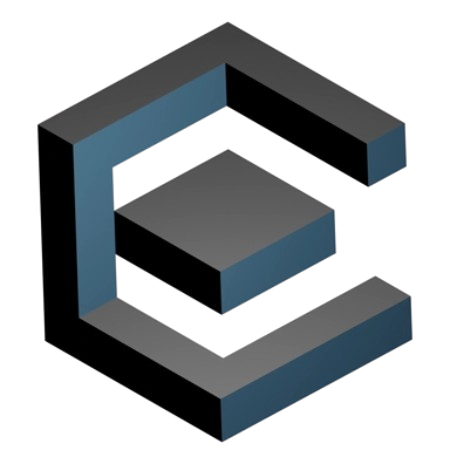
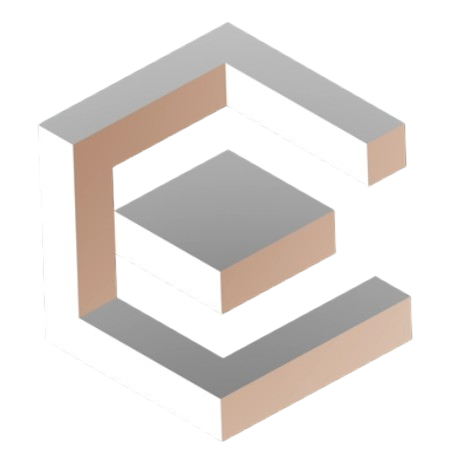
black theme of chatbot

diff --git a/src/client/components/Chatbot.js b/src/client/components/Chatbot.js
@@ -3,7 +3,7 @@ import { useEffect, useRef, useState } from 'react'
 import { SendHorizonalIcon, XIcon } from 'lucide-react'
 
 // Edify icon component using the logo image
-function EdifyIcon({ size = 24 }) {
+function EdifyIcon({ size = 24, invert = false }) {
   return (
     <img
       src="/edifyengine.png"
@@ -13,6 +13,7 @@ function EdifyIcon({ size = 24 }) {
       style={{
         display: 'block',
         objectFit: 'contain',
+        filter: invert ? 'invert(1)' : 'none',
       }}
     />
   )
@@ -157,15 +158,15 @@ export function Chatbot({ world }) {
           max-width: calc(100vw - 2rem);
           height: 28rem;
           max-height: calc(100vh - 8rem);
-          background: rgba(255, 255, 255, 0.95);
-          backdrop-filter: blur(10px);
+          background: rgba(15, 17, 29, 0.95);
+          backdrop-filter: blur(14px);
           border-radius: 1rem;
-          border: 1px solid rgba(0, 0, 0, 0.1);
+          border: 1px solid rgba(255, 255, 255, 0.08);
           display: flex;
           flex-direction: column;
           overflow: hidden;
           pointer-events: auto;
-          box-shadow: 0 8px 32px rgba(0, 0, 0, 0.15);
+          box-shadow: 0 24px 48px rgba(0, 0, 0, 0.45);
           isolation: isolate; /* Create a new stacking context to prevent style leakage */
           user-select: text !important;
           -webkit-user-select: text !important;
@@ -193,8 +194,8 @@ export function Chatbot({ world }) {
             align-items: center;
             justify-content: space-between;
             padding: 1rem;
-            border-bottom: 1px solid rgba(0, 0, 0, 0.1);
-            background: rgba(248, 249, 250, 0.8);
+            border-bottom: 1px solid rgba(255, 255, 255, 0.08);
+            background: rgba(24, 26, 38, 0.9);
           `}
         >
           <div
@@ -202,7 +203,7 @@ export function Chatbot({ world }) {
               display: flex;
               align-items: center;
               gap: 0.5rem;
-              color: #1a1a1a;
+              color: #f1f5f9;
               font-weight: 600;
               font-size: 1rem;
             `}
@@ -215,7 +216,7 @@ export function Chatbot({ world }) {
             css={css`
               background: transparent;
               border: none;
-              color: rgba(0, 0, 0, 0.6);
+              color: rgba(226, 232, 240, 0.7);
               cursor: pointer;
               padding: 0.25rem;
               display: flex;
@@ -225,8 +226,8 @@ export function Chatbot({ world }) {
               transition: all 0.2s;
 
               &:hover {
-                background: rgba(0, 0, 0, 0.05);
-                color: #1a1a1a;
+                background: rgba(148, 163, 184, 0.1);
+                color: #f8fafc;
               }
             `}
           >
@@ -247,6 +248,7 @@ export function Chatbot({ world }) {
             -webkit-user-select: text;
             -moz-user-select: text;
             -ms-user-select: text;
+            color: #e2e8f0;
 
             /* Scrollbar styling */
             &::-webkit-scrollbar {
@@ -256,11 +258,11 @@ export function Chatbot({ world }) {
               background: transparent;
             }
             &::-webkit-scrollbar-thumb {
-              background: rgba(0, 0, 0, 0.2);
+              background: rgba(148, 163, 184, 0.35);
               border-radius: 3px;
             }
             &::-webkit-scrollbar-thumb:hover {
-              background: rgba(0, 0, 0, 0.3);
+              background: rgba(148, 163, 184, 0.5);
             }
           `}
         >
@@ -272,7 +274,7 @@ export function Chatbot({ world }) {
                 align-items: center;
                 justify-content: center;
                 height: 100%;
-                color: rgba(0, 0, 0, 0.6);
+                color: rgba(226, 232, 240, 0.7);
                 text-align: center;
                 gap: 0.5rem;
               `}
@@ -297,12 +299,16 @@ export function Chatbot({ world }) {
                     padding: 0.75rem 1rem;
                     border-radius: 1rem;
                     background: ${message.type === 'user'
-                      ? 'rgba(66, 103, 125, 1)'
+                      ? 'linear-gradient(135deg, rgba(66, 103, 125, 0.95), rgba(41, 62, 78, 0.95))'
                       : message.error
-                      ? 'rgba(239, 68, 68, 0.1)'
-                      : 'rgba(0, 0, 0, 0.05)'};
-                    color: ${message.type === 'user' ? 'white' : message.error ? '#dc2626' : '#1a1a1a'};
-                    border: ${message.error ? '1px solid rgba(239, 68, 68, 0.3)' : 'none'};
+                      ? 'rgba(239, 68, 68, 0.18)'
+                      : 'rgba(255, 255, 255, 0.06)'};
+                    color: ${message.type === 'user' ? '#f1f5f9' : message.error ? '#fecaca' : '#e2e8f0'};
+                    border: ${message.error
+                      ? '1px solid rgba(239, 68, 68, 0.45)'
+                      : message.type === 'user'
+                      ? '1px solid rgba(94, 142, 168, 0.45)'
+                      : '1px solid rgba(148, 163, 184, 0.25)'};
                     font-size: 0.875rem;
                     line-height: 1.5;
                     word-wrap: break-word;
@@ -313,6 +319,7 @@ export function Chatbot({ world }) {
                     -moz-user-select: text;
                     -ms-user-select: text;
                     cursor: text;
+                    box-shadow: 0 12px 24px rgba(8, 10, 20, 0.35);
                   `}
                 >
                   {message.isLoading ? (
@@ -373,7 +380,7 @@ export function Chatbot({ world }) {
                 <div
                   css={css`
                     font-size: 0.75rem;
-                    color: rgba(0, 0, 0, 0.5);
+                    color: rgba(226, 232, 240, 0.45);
                     padding: 0 0.5rem;
                     user-select: text;
                     -webkit-user-select: text;
@@ -399,8 +406,8 @@ export function Chatbot({ world }) {
             display: flex;
             gap: 0.5rem;
             padding: 1rem;
-            border-top: 1px solid rgba(0, 0, 0, 0.1);
-            background: rgba(248, 249, 250, 0.8);
+            border-top: 1px solid rgba(255, 255, 255, 0.08);
+            background: rgba(21, 22, 32, 0.92);
           `}
         >
           <input
@@ -413,23 +420,29 @@ export function Chatbot({ world }) {
             disabled={isLoading}
             css={css`
               flex: 1;
-              background: white;
-              border: 1px solid rgba(0, 0, 0, 0.15);
+              background: rgba(12, 14, 24, 0.92);
+              border: 1px solid rgba(148, 163, 184, 0.28);
               border-radius: 0.5rem;
               padding: 0.75rem 1rem;
-              color: #1a1a1a;
-              font-size: 0.875rem;
-              outline: none;
+              color: #f8fafc;
               transition: all 0.2s;
+              outline: none;
+              caret-color: #93c5fd;
 
               &::placeholder {
-                color: rgba(0, 0, 0, 0.5);
+                color: rgba(226, 232, 240, 0.5);
               }
 
               &:focus {
-                background: white;
-                border-color: rgba(66, 103, 125, 1);
-                box-shadow: 0 0 0 3px rgba(66, 103, 125, 0.1);
+                border-color: rgba(94, 142, 168, 0.65);
+                box-shadow: 0 0 0 3px rgba(66, 103, 125, 0.25);
+                background: rgba(15, 17, 29, 0.95);
+              }
+
+              &:disabled {
+                background: rgba(17, 19, 30, 0.7);
+                color: rgba(226, 232, 240, 0.6);
+                border-color: rgba(148, 163, 184, 0.18);
               }
             `}
           />
@@ -437,25 +450,29 @@ export function Chatbot({ world }) {
             type="submit"
             disabled={!inputValue.trim() || isLoading}
             css={css`
-              background: rgba(66, 103, 125, 1);
-              border: none;
+              background: linear-gradient(135deg, rgba(66, 103, 125, 1), rgba(35, 54, 67, 1));
+              border: 1px solid rgba(94, 142, 168, 0.6);
               border-radius: 0.5rem;
               padding: 0.75rem;
-              color: white;
+              color: #f8fafc;
               cursor: pointer;
               display: flex;
               align-items: center;
               justify-content: center;
               transition: all 0.2s;
+              box-shadow: 0 12px 24px rgba(12, 16, 26, 0.45);
 
               &:hover:not(:disabled) {
-                background: rgba(53, 82, 99, 1);
+                background: linear-gradient(135deg, rgba(86, 126, 150, 1), rgba(46, 74, 94, 1));
                 transform: scale(1.05);
+                box-shadow: 0 16px 32px rgba(12, 16, 26, 0.55);
               }
 
               &:disabled {
                 opacity: 0.5;
                 cursor: not-allowed;
+                border-color: rgba(94, 142, 168, 0.3);
+                box-shadow: none;
               }
             `}
           >
@@ -471,27 +488,27 @@ export function Chatbot({ world }) {
           width: 3.5rem;
           height: 3.5rem;
           border-radius: 50%;
-          background: white;
-          border: 2px solid rgba(66, 103, 125, 0.2);
-          color: #1a1a1a;
+          background: linear-gradient(135deg, rgba(28, 31, 46, 0.98), rgba(13, 15, 25, 0.98));
+          border: 1px solid rgba(255, 255, 255, 0.14);
+          color: #e2e8f0;
           cursor: pointer;
           display: flex;
           align-items: center;
           justify-content: center;
-          box-shadow: 0 4px 12px rgba(0, 0, 0, 0.15);
+          box-shadow: 0 16px 36px rgba(0, 0, 0, 0.45);
           pointer-events: auto;
           transition: all 0.3s cubic-bezier(0.4, 0, 0.2, 1);
           position: relative;
           overflow: hidden;
 
           &:hover {
-            transform: scale(1.1);
-            box-shadow: 0 6px 20px rgba(0, 0, 0, 0.2);
-            border-color: rgba(66, 103, 125, 0.4);
+            transform: scale(1.08);
+            box-shadow: 0 20px 44px rgba(0, 0, 0, 0.55);
+            border-color: rgba(255, 255, 255, 0.24);
           }
 
           &:active {
-            transform: scale(0.95);
+            transform: scale(0.94);
           }
 
           /* Pulse animation when closed */
@@ -502,7 +519,7 @@ export function Chatbot({ world }) {
               position: absolute;
               inset: -2px;
               border-radius: 50%;
-              background: rgba(66, 103, 125, 0.1);
+              background: rgba(66, 103, 125, 0.22);
               animation: pulse 2s ease-in-out infinite;
             }
 
@@ -513,7 +530,7 @@ export function Chatbot({ world }) {
                 transform: scale(1);
               }
               50% {
-                opacity: 0.5;
+                opacity: 0.35;
                 transform: scale(1.1);
               }
             }
@@ -527,7 +544,7 @@ export function Chatbot({ world }) {
 
           /* X icon color when open - scope to this button only */
           & > svg[stroke] {
-            stroke: ${isOpen ? '#1a1a1a' : 'currentColor'};
+            stroke: ${isOpen ? '#f8fafc' : 'currentColor'};
           }
         `}
       >

diff --git a/src/core/systems/ServerAI.js b/src/core/systems/ServerAI.js
@@ -319,7 +319,7 @@ class OpenAIClient {
       messages: [
         {
           role: 'system',
-          content: 'You are a helpful assistant integrated into the Edify virtual world platform, which is Hyperfy world. Be friendly, concise, and helpful.',
+          content: 'You are a helpful assistant integrated into the Edify virtual world platform. Be friendly, concise, and helpful.',
         },
         {
           role: 'user',
@@ -417,7 +417,7 @@ class AnthropicClient {
     const resp = await this.client.messages.create({
       model: this.model,
       max_tokens: this.maxTokens,
-      system: 'You are a helpful assistant integrated into the Edify virtual world platform, which is Hyperfy world. Be friendly, concise, and helpful.',
+      system: 'You are a helpful assistant integrated into the Edify virtual world platform. Be friendly, concise, and helpful.',
       messages: [
         {
           role: 'user',
@@ -535,7 +535,7 @@ class Comput3Client {
       messages: [
         {
           role: 'system',
-          content: 'You are a helpful assistant integrated into the Edify virtual world platform, which is Hyperfy world. Be friendly, concise, and helpful.',
+          content: 'You are a helpful assistant integrated into the Edify virtual world platform. Be friendly, concise, and helpful.',
         },
         {
           role: 'user',
@@ -685,7 +685,7 @@ class XAIClient {
         messages: [
           {
             role: 'system',
-            content: 'You are a helpful assistant integrated into the Edify virtual world platform, which is Hyperfy world. Be friendly, concise, and helpful.',
+            content: 'You are a helpful assistant integrated into the Edify virtual world platform. Be friendly, concise, and helpful.',
           },
           {
             role: 'user',
@@ -834,7 +834,7 @@ class GoogleClient {
       body: JSON.stringify({
         system_instruction: {
           parts: {
-            text: 'You are a helpful assistant integrated into the Edify virtual world platform, which is Hyperfy world. Be friendly, concise, and helpful.',
+            text: 'You are a helpful assistant integrated into the Edify virtual world platform. Be friendly, concise, and helpful.',
           },
         },
         contents: [
